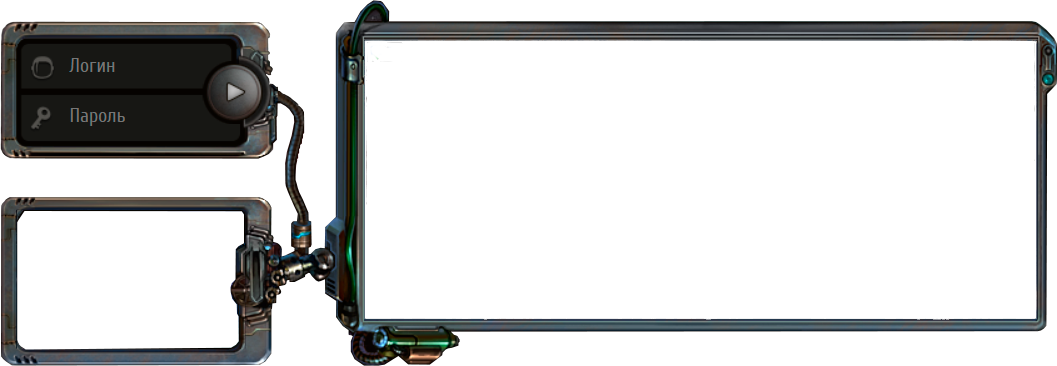
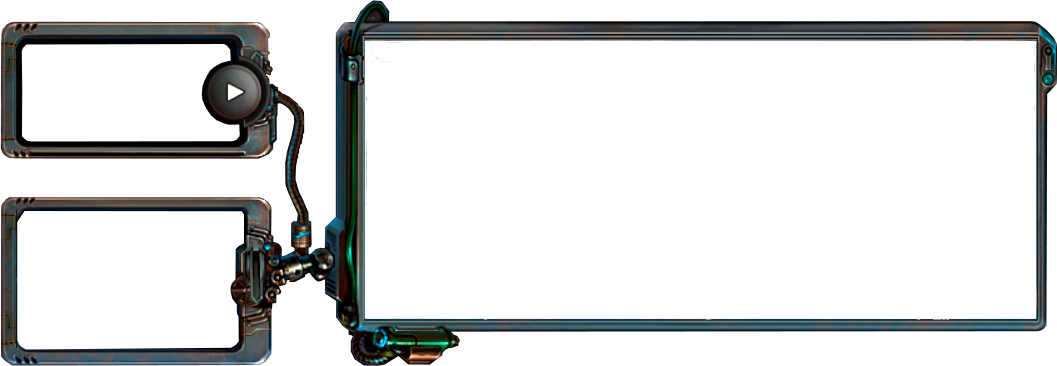
11.03.2

diff --git a/index.html b/index.html
@@ -10,22 +10,38 @@
     <title>Document</title>
 </head>
 <body>
-    <div class="login page">
-        <div class="meny">
-            <ul>
-                <li><a href="#">Дом</a></li>
-                <li><a href="#">Об игре</a></li>
-                <li><a href="#">Регистрация</a></li>
-                <li><a href="#">Новости</a></li>
-                <li><a href="#">Личный кабинет</a></li>
-            </ul>
+    <div class="container">
+        <div class="row">
+            <div class="col-12">
+                <div class="menu">
+                    <ul>
+                       <li><a href="#">Дом</a></li>
+                        <li><a href="#">Об игре</a></li>
+                        <li><a href="#">Регистрация</a></li>
+                        <li><a href="#">Новости</a></li>
+                        <li><a href="#">Личный кабинет</a></li>
+                    </ul>
+                </div>
+                <img src="img/front page.png" alt="">
+            </div>   
         </div>
-        <div class="login-password">
-            <img src="img/front page.png" alt="">
-
+        <div class="row">
+            <div class="col-4">
+                <img src="img/front page2.png" alt="">
+            </div>
+            <div class="col-sm-12 col-md-6 col-lg-8 col-xl-8">
+                <!-- Новость -->
+            </div>
+        </div>
+        <div class="row">
+            <div class="col-8">
+                <div class="text">
+                     Какой то текст
+                </div>
+            </div>
         </div>
 
     </div>
-    
+
 </body>
 </html>

diff --git a/stile.css b/stile.css
@@ -12,3 +12,57 @@ body {
     background-size: cover;
     /* overflow: hidden; */
 }
+li {
+    list-style-type: none;
+}
+.menu {
+    width: 550px;
+    position: relative;
+    left: 450px;
+    top: 20px;    
+}
+.menu ul {
+    display: flex;
+    justify-content:space-around;
+
+}
+.menu ul li {
+    padding: 0 7px;
+}
+.menu a {
+    color: rgb(207, 207, 207);
+    text-transform: uppercase;
+    font-size: 15px;
+    border-bottom: 1px dotted;
+    padding-bottom: 3px;
+    
+}
+.menu a:hover {
+    text-decoration: none;
+    color: #fff;
+}
+.col-12 {
+    text-align: center;
+    margin-top: 170px;
+    border: 1px solid #fff;
+}
+.col-4 {
+    text-align: center;
+    margin-left: 6px;
+    margin-top: 45px;
+    border: 1px solid #fff ; 
+}
+.col-8 {
+    text-align: center;
+    margin-left: 446px;
+    margin-top: 5px;
+    border: 1px solid #fff ; 
+}
+.text {
+     
+    position: relative;
+    right: 0;
+    width: 200px;
+    border: 1px solid #fff;
+    padding: 20px;
+}
